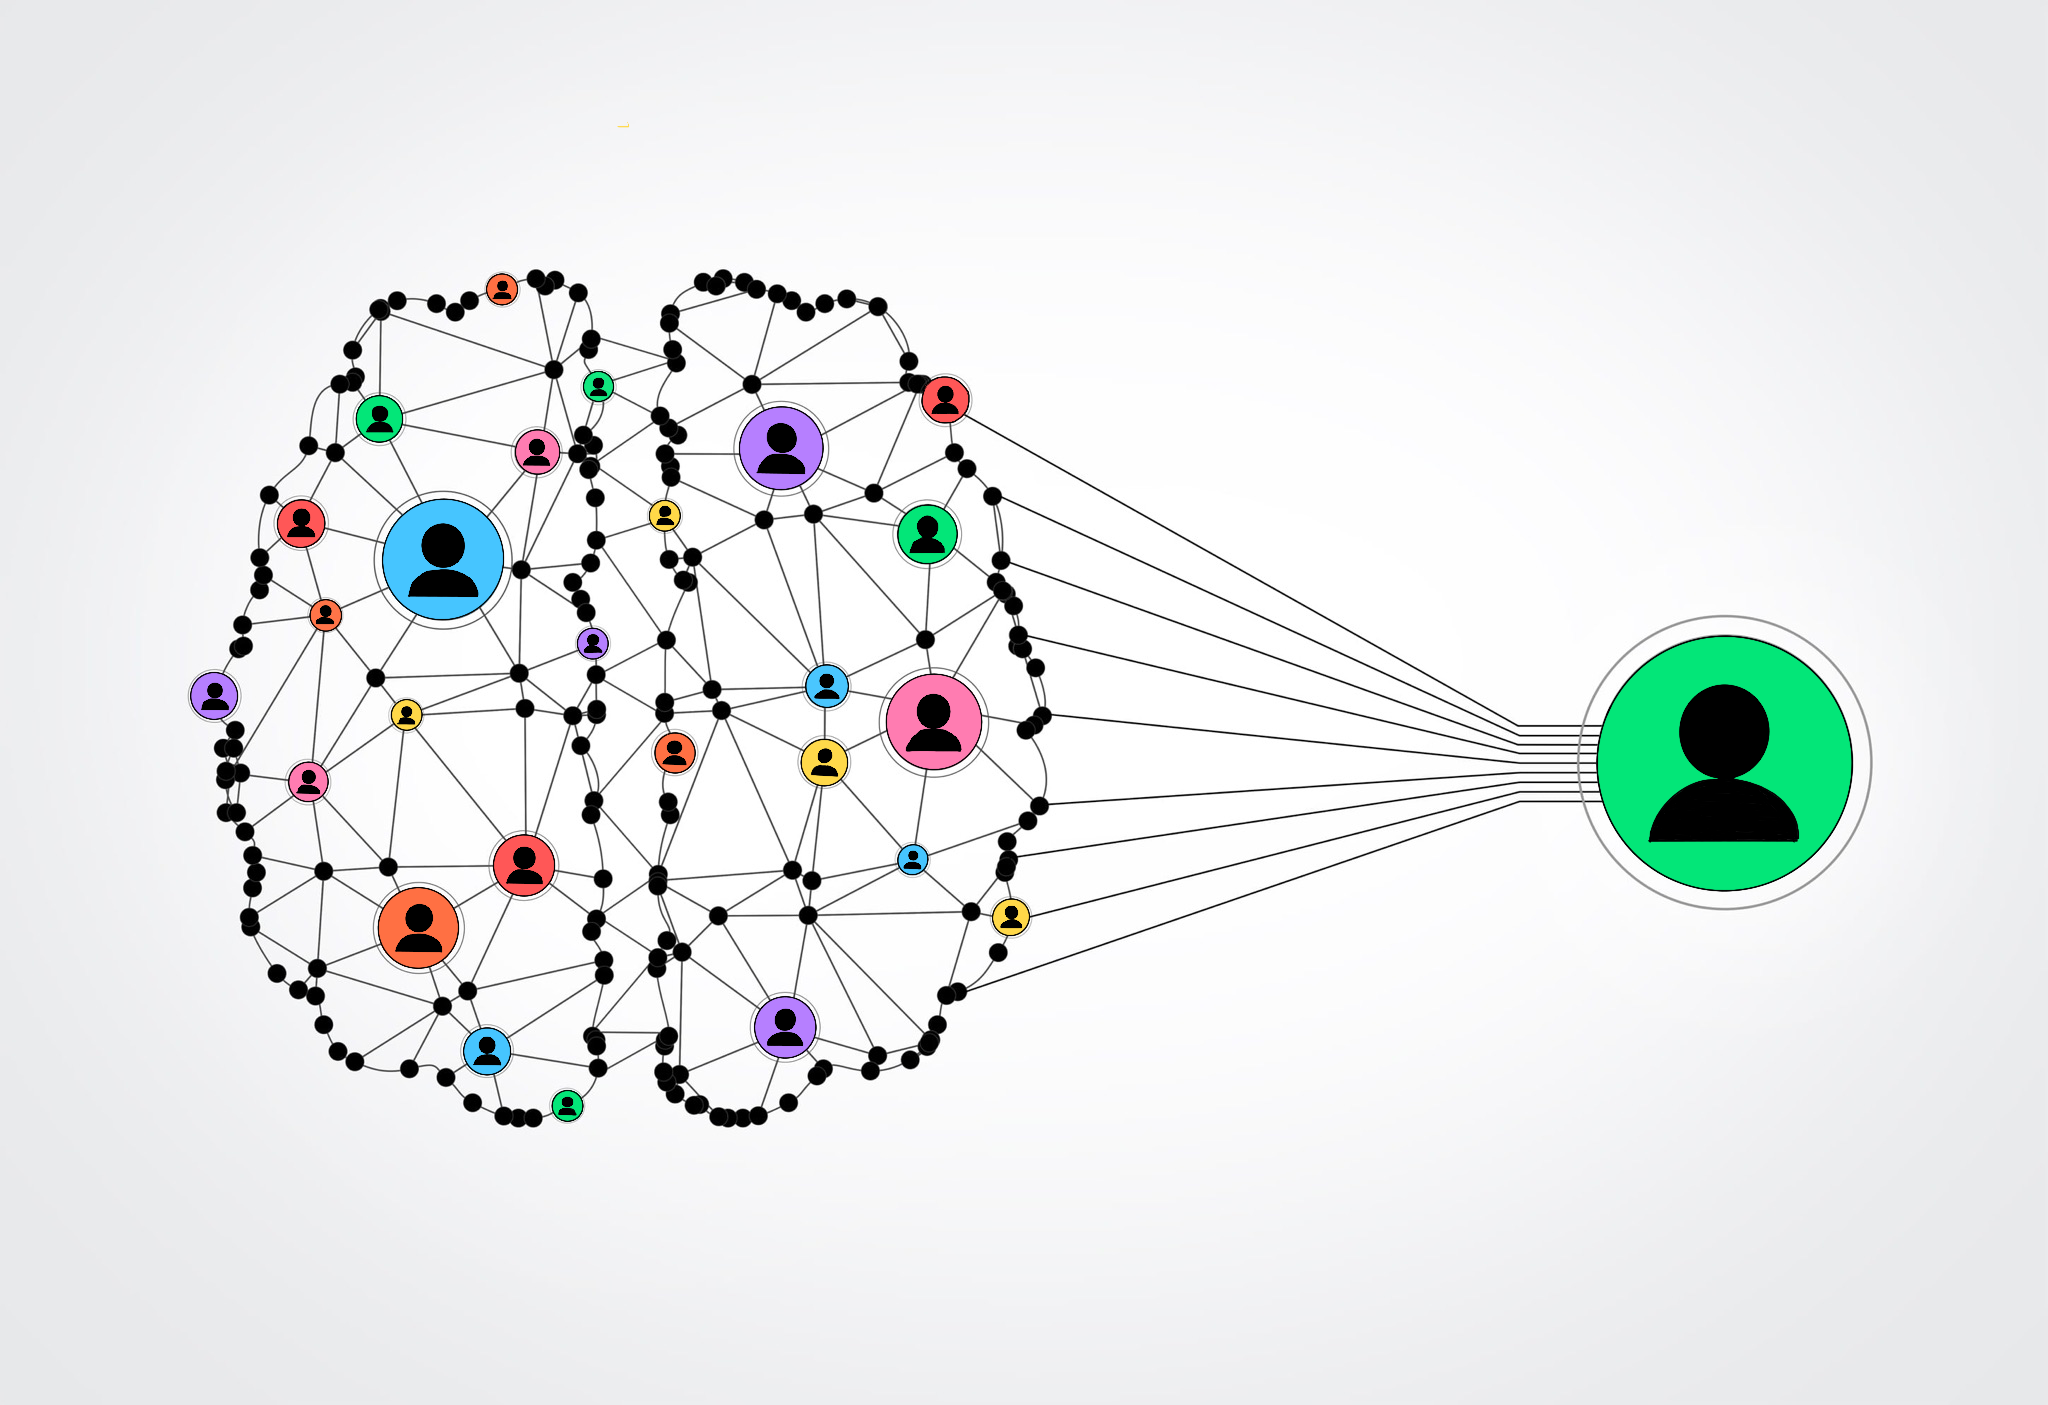
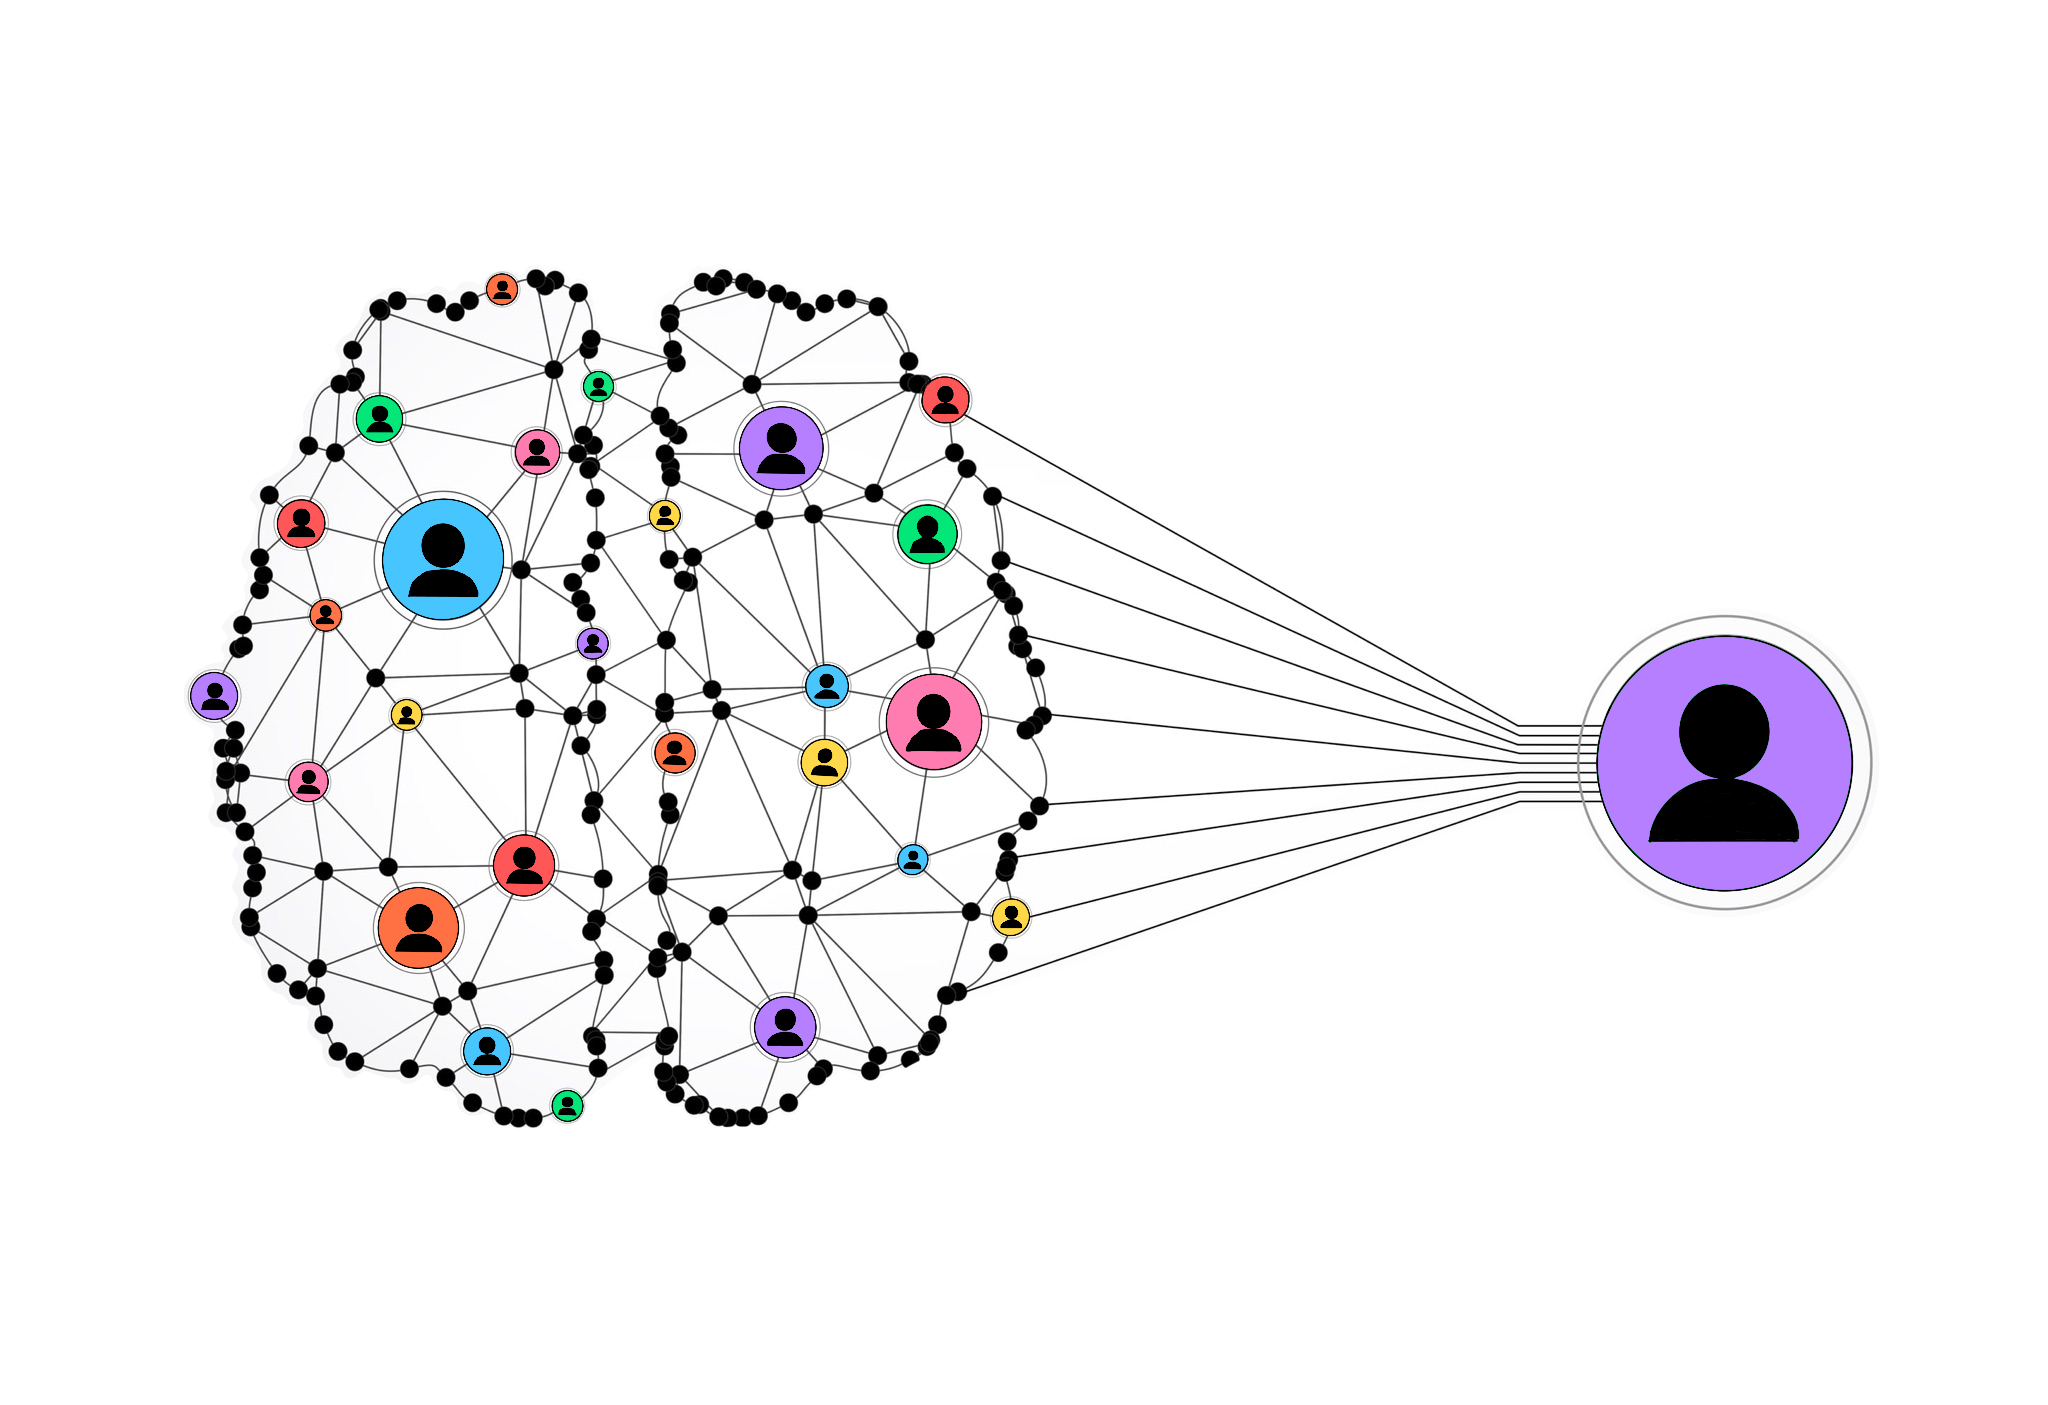
small updates

Changed region(s): [[0.7812, 0.4591, 0.9062, 0.6427]]

diff --git a/src/App.css b/src/App.css
@@ -189,15 +189,6 @@ img {
   box-shadow: 5px 5px 5px #000, -1px -1px 5px #808dea;
   border-radius: 5px;
 }
-.new {
-  border: 5px solid #00e676 !important;
-}
-.assigned {
-  border: 5px solid #ffd740 !important;
-}
-.closed {
-  border: 5px solid #ff5252 !important;
-}
 .btn {
   text-decoration: none;
   margin: 0 8px;
@@ -253,7 +244,7 @@ section p {
 }
 
 /* HEADER STYLES */
-header {
+#Header {
   display: block;
   padding: 2%;
   margin-bottom: 2%;
@@ -263,16 +254,16 @@ header {
   height: fit-content;
   text-align: center;
 }
-header h1 {
+#Header h1 {
   font-size: 36px;
   text-align: center;
   text-shadow: 1.5px 1.5px 3px #000, -1px 1px 1.5px #ccc;
   margin: 0.5em auto 0.25em auto;
 }
-header h3 {
+#Header h3 {
   font-weight: 300;
 }
-header img {
+#Header img {
   height: 75px;
   width: 75px;
   margin: 0.5em auto;
@@ -321,12 +312,6 @@ header img {
 
 /****** ALL TABLET STYLES FROM 769px - 1024px ******/
 @media screen and (min-width: 769px) {
-  table th:nth-child(2),
-  table th:nth-child(4),
-  table td:nth-child(2),
-  table td:nth-child(4) {
-    display: table-cell;
-  }
 }
 
 /****** ALL LAPTOP STYLES FROM 1025px - 1438px ******/

diff --git a/src/components/Welcome/Welcome.js b/src/components/Welcome/Welcome.js
@@ -17,11 +17,14 @@ export default class Welcome extends Component {
             Get on demand help from a pool of teachers who will pick up your
             question and get you the help you need now.
           </p>
-          <p>LOGIN BELOW TO GET STARTED</p>
         </article>
         <section id="Welcome">
           <div className="heroImage">
-            <img className="welcomeImage" src="/images/hero-image.PNG"></img>
+            <img
+              className="welcomeImage"
+              src="/images/hero-image.PNG"
+              alt="Welcome"
+            ></img>
           </div>
           <Link to="/login">
             <button className="btn">LOGIN</button>

diff --git a/src/components/Help/Help.css b/src/components/Help/Help.css
@@ -49,6 +49,11 @@
 #Help table,
 #table {
   width: 100%;
+  display: table;
+  border-collapse: separate;
+  box-sizing: border-box;
+  border-spacing: 2px;
+  border-color: grey;
 }
 
 #Help table th {
@@ -233,7 +238,7 @@
   font-size: 28px;
   text-align: center;
   color: #eee;
-  border: 0.25px solid #8587c1;
+  /* border: 0.25px solid #8587c1; */
 }
 #TicketInfo tbody {
   text-align: left;
@@ -242,8 +247,10 @@
   color: #eee;
   text-decoration: none;
 }
+#TicketInfo table td:first-child {
+  width: 30%;
+}
 #TicketInfo table td {
-  width: 50%;
   font-size: 18px;
   padding: 8px;
   min-height: 40px;

diff --git a/src/components/Footer/Footer.js b/src/components/Footer/Footer.js
@@ -11,7 +11,7 @@ export default class Footer extends Component {
           <Link to="/">HOME</Link>
         </div>
         <div className="itemTriple">
-          <img src="/images/portrait.jpg"></img>
+          <img src="/images/portrait.jpg" alt="User Portait" />
         </div>
         <div className="itemTriple">
           {TokenService.hasAuthToken() ? (

diff --git a/src/config.js b/src/config.js
@@ -1,4 +1,5 @@
 export default {
-  API_ENDPOINT: `https://postresql-triangular-79425.herokuapp.com/`,
-  API_KEY: process.env.REACT_APP_API_KEY,
+  API_ENDPOINT: "http://localhost:8000",
+  // API_ENDPOINT: `https://postresql-triangular-79425.herokuapp.com`,
+  TOKEN_KEY: process.env.REACT_APP_API_KEY,
 };

diff --git a/src/components/Welcome/Welcome.css b/src/components/Welcome/Welcome.css
@@ -34,11 +34,7 @@
   position: relative;
   border-top-left-radius: 40%;
   border-bottom-right-radius: 40%;
-  background: linear-gradient(
-    185deg,
-    rgba(234, 235, 237, 100) 0%,
-    rgba(233, 234, 236, 100) 100%
-  );
+  background: #fff;
 }
 .heroImage img {
   width: 90%;

diff --git a/src/components/Login/Login.js b/src/components/Login/Login.js
@@ -8,7 +8,6 @@ import { Redirect } from "react-router-dom";
 
 export default class Login extends Component {
   static contextType = Context;
-  /* state for inputs etc... */
 
   handleSubmitJwtAuth = (ev) => {
     ev.preventDefault();

diff --git a/README.md b/README.md
@@ -26,7 +26,6 @@ With the state of our nation, dealing with a pandemic forcing families to stay h
 
 Virtual Desk is an app for students to get help more efficiently from a pool of approved resources such as teachers and teacher assistants. Not only will students be able to get help faster, it will also free the teachers from being the only available source for students to seek help.
 
-
 ## How It Works
 
 As the student, I can:
@@ -41,16 +40,13 @@ As the teacher, I can:
 - Find a help ticket that I can pick up containing: subject, question and a due date of when the assignment or project.
 - Close a help ticket when the student is satisfied with their help.
 
-
 ## Client Documentation/Screenshots
 
 1. **Welcome Page** - The first page the user sees, this page contains meta data on the app, such as app description and summary along with a button to move to login.
    ![Welcome Page]()
 
-
-2. **Login Page** - To get started, the user must use their given credentials to login; this will be an email and a password.
+2) **Login Page** - To get started, the user must use their given credentials to login; this will be an email and a password.
    ![Login Page]()
 
-
-8. **Help Ticket Table** - This is how the dashboard looks like when fully expanded. The dashboard contains the disaster management plan/s and the task and shopping lists.
-   ![Help Ticket Table]()
+8. **Help Ticket Page** - This is how students and teachers view their respective tickets.
+   ![Help Ticket Page]()
